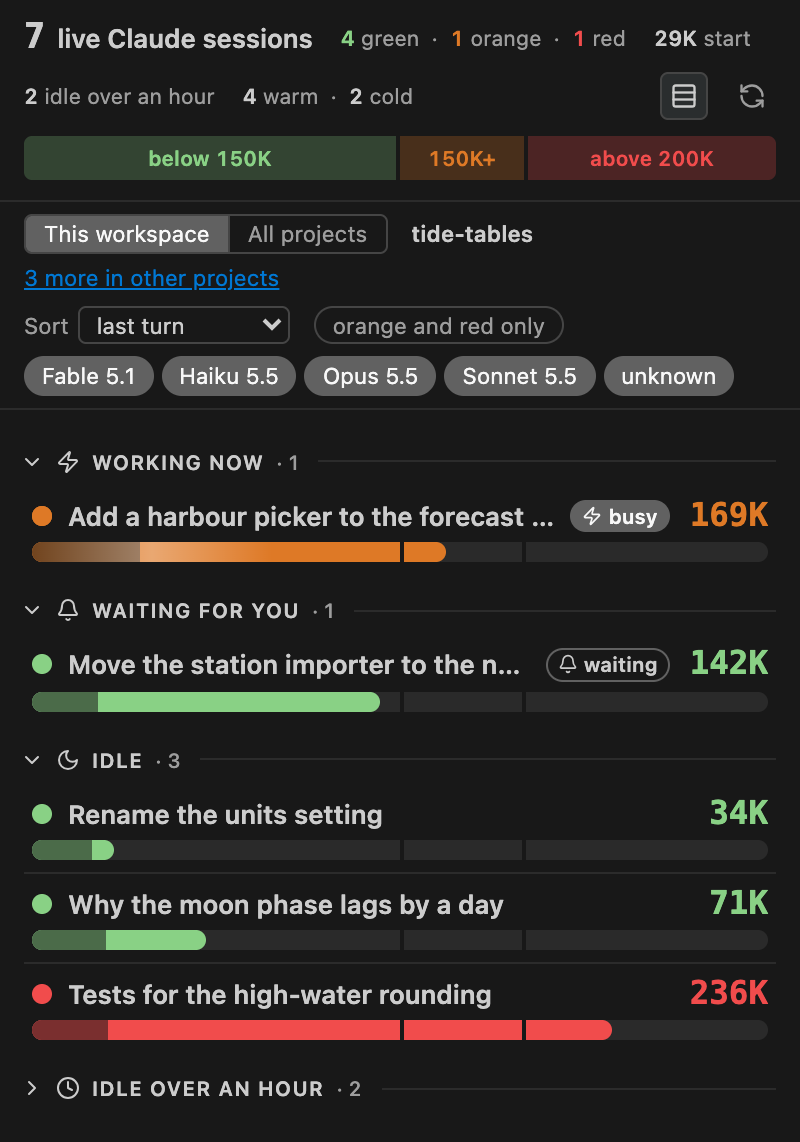
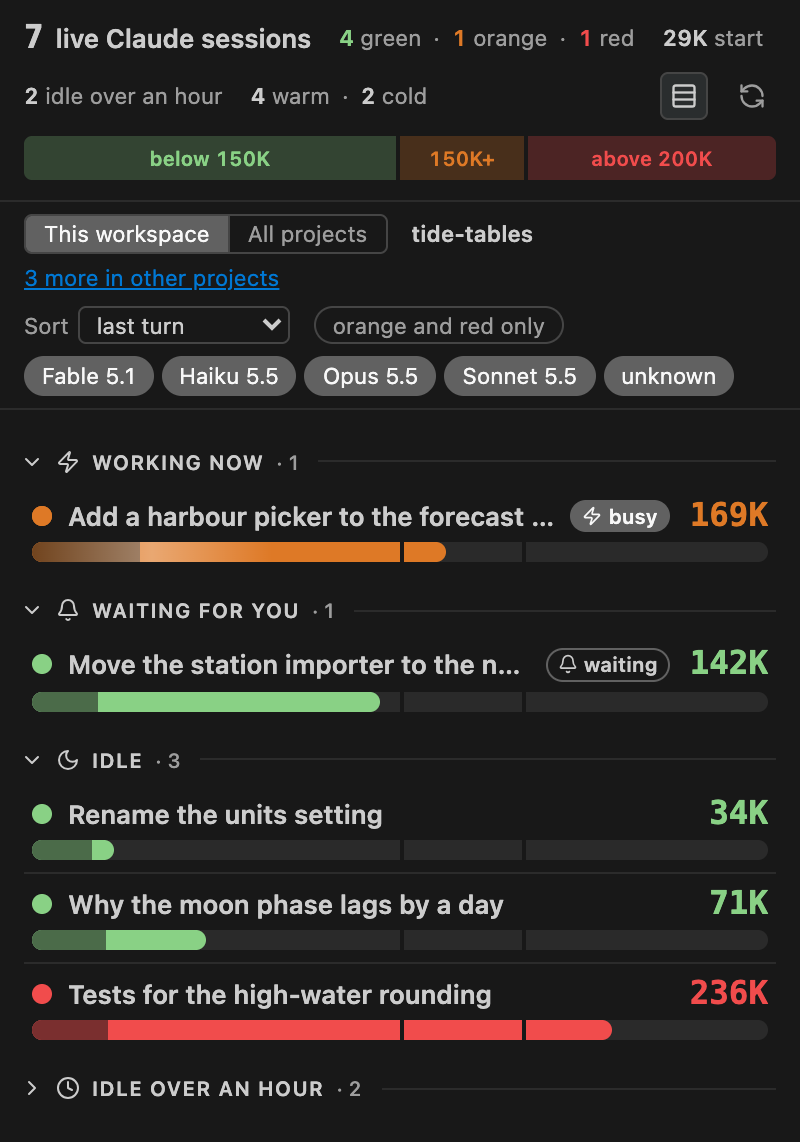
#85 The panel's font sizes come from a scale of six tokens on :root
The panel's CSS had 17 different font-size values, several too close to tell apart, and sizes nested inside one
another multiplied (a key in the facts table came out at 0.77 of the editor's size, its value at 0.9). Six tokens
on :root now carry every size, each named for its rank and a factor of --kx-font-size, so the panel still follows
the editor's font size: small (labels, badges, pills, the curve's axis), secondary (muted lines, the controls, the
detail's tables), body, heading (the session count, the detail's title), count and display (the big numbers). They
are calc() over --kx-font-size rather than em, since an em in a variable resolves where it is used and would
compound again. The wide layout steps the row's count, the detail's context number and the facts' keys up one
rank; the detail's title no longer grows there. A test checks that no font-size is a literal and that the scale
has at most six steps. The README's screenshots are taken again and its note on the look says how text is sized.

Version 0.31.0.

diff --git a/src/panel.css b/src/panel.css
@@ -30,13 +30,22 @@
   --kx-surface: var(--vscode-editorWidget-background, #f6f8fa); /* the field behind the detail view's curve */
   --kx-font: var(--vscode-font-family, system-ui, sans-serif);
   --kx-font-size: var(--vscode-font-size, 13px);
+  /* The text sizes, one per rank, as factors of the editor's font size. calc, not em: an em in a variable resolves
+     where it is used, so a label inside a table would shrink twice and two texts of one rank would differ. The wide
+     layout moves the row's count, the detail's context number and the facts' keys one step up. */
+  --kx-text-small: calc(var(--kx-font-size) * 0.78); /* labels: the upper-case headings, column heads, badges, pills, the zone strip, the curve's axis */
+  --kx-text-secondary: calc(var(--kx-font-size) * 0.86); /* muted lines, the controls, the detail's tables and facts */
+  --kx-text-body: var(--kx-font-size); /* titles, the error, the advice */
+  --kx-text-heading: calc(var(--kx-font-size) * 1.25); /* the session count, the detail's title, the row's count in the narrow layout */
+  --kx-text-count: calc(var(--kx-font-size) * 1.5); /* the row's count in the wide layout, the detail's context number in the narrow */
+  --kx-text-display: calc(var(--kx-font-size) * 2); /* the detail's context number in the wide layout */
   --kx-mono: var(--vscode-editor-font-family, ui-monospace, "SF Mono", Menlo, Consolas, monospace);
 }
 * { box-sizing: border-box; }
 html, body { margin: 0; padding: 0; }
 body {
   background: var(--kx-bg); color: var(--kx-fg);
-  font-family: var(--kx-font); font-size: var(--kx-font-size); line-height: 1.4;
+  font-family: var(--kx-font); font-size: var(--kx-text-body); line-height: 1.4;
   container-type: inline-size; /* the layout below follows the panel's width, not the window's */
 }
 
@@ -45,11 +54,11 @@ header {
   display: flex; flex-wrap: wrap; align-items: center; gap: 8px 14px;
   padding: 10px 12px; border-bottom: 1px solid var(--kx-border);
 }
-header h1 { margin: 0; font-size: 1em; font-weight: 600; display: flex; align-items: baseline; gap: 6px; min-width: 0; }
-header h1 .kx-n { font-family: var(--kx-mono); font-size: 1.35em; font-weight: 700; line-height: 1; font-variant-numeric: tabular-nums; }
+header h1 { margin: 0; font-size: var(--kx-text-body); font-weight: 600; display: flex; align-items: baseline; gap: 6px; min-width: 0; }
+header h1 .kx-n { font-family: var(--kx-mono); font-size: var(--kx-text-heading); font-weight: 700; line-height: 1; font-variant-numeric: tabular-nums; }
 /* the "updated 12:04:31" note and the refresh button, pushed to the right end of the header */
 .kx-tools { display: inline-flex; align-items: center; gap: 10px; margin-left: auto; }
-.kx-refreshed { font-size: 0.82em; color: var(--kx-muted); white-space: nowrap; font-variant-numeric: tabular-nums; }
+.kx-refreshed { font-size: var(--kx-text-secondary); color: var(--kx-muted); white-space: nowrap; font-variant-numeric: tabular-nums; }
 .kx-refresh, .kx-toggle {
   display: inline-flex; align-items: center; justify-content: center; width: 24px; height: 24px; padding: 0; margin: 0;
   border: 1px solid transparent; border-radius: 4px; background: transparent; color: var(--kx-muted); cursor: pointer;
@@ -67,7 +76,7 @@ header h1 .kx-n { font-family: var(--kx-mono); font-size: 1.35em; font-weight: 7
 .kx-zband {
   flex: var(--w) 1 0; min-width: 0; overflow: hidden; display: flex; align-items: center; justify-content: center;
   background: color-mix(in srgb, var(--kx-zone-fill, var(--kx-muted)) 24%, var(--kx-bg)); color: var(--kx-zone-text, var(--kx-muted));
-  font-size: 0.8em; font-weight: 600; font-variant-numeric: tabular-nums; white-space: nowrap;
+  font-size: var(--kx-text-small); font-weight: 600; font-variant-numeric: tabular-nums; white-space: nowrap;
 }
 .kx-zband:first-child { border-radius: 4px 0 0 4px; }
 .kx-zband:last-child { border-radius: 0 4px 4px 0; }
@@ -79,7 +88,7 @@ header h1 .kx-n { font-family: var(--kx-mono); font-size: 1.35em; font-weight: 7
 /* the header's counters beside the session count: the count per zone, the median start of the sessions that began
    fresh, how many sit in the folded "Idle over an hour" group (processes left running, most likely closed tabs), and
    the prompt cache's warm and cold; a bold number each, "·" between the parts of one */
-.kx-counter { font-size: 0.82em; font-variant-numeric: tabular-nums; color: var(--kx-muted); white-space: nowrap; }
+.kx-counter { font-size: var(--kx-text-secondary); font-variant-numeric: tabular-nums; color: var(--kx-muted); white-space: nowrap; }
 .kx-counter b { font-weight: 600; color: var(--kx-fg); }
 .kx-counter span + span::before { content: "·"; margin: 0 6px; }
 .kx-zone-counts { display: inline-flex; flex-wrap: wrap; }
@@ -87,12 +96,12 @@ header h1 .kx-n { font-family: var(--kx-mono); font-size: 1.35em; font-weight: 7
 .kx-cache-counts { display: inline-flex; align-items: center; }
 
 /* "showing 4 of 10" beside the count while a filter hides sessions */
-.kx-showing { font-size: 0.82em; color: var(--kx-muted); white-space: nowrap; }
+.kx-showing { font-size: var(--kx-text-secondary); color: var(--kx-muted); white-space: nowrap; }
 
 /* ── Controls: the sort and the filters, under the header; wraps to more lines in the narrow layout ── */
 .kx-controls {
   display: flex; flex-wrap: wrap; align-items: center; gap: 6px 12px; padding: 6px 12px;
-  border-bottom: 1px solid var(--kx-border); font-size: 0.86em; color: var(--kx-muted);
+  border-bottom: 1px solid var(--kx-border); font-size: var(--kx-text-secondary); color: var(--kx-muted);
 }
 .kx-controls label { display: inline-flex; align-items: center; gap: 5px; white-space: nowrap; }
 .kx-controls select {
@@ -121,15 +130,15 @@ header h1 .kx-n { font-family: var(--kx-mono); font-size: 1.35em; font-weight: 7
 .kx-scope-name { color: var(--kx-fg); font-weight: 600; min-width: 0; overflow: hidden; text-overflow: ellipsis; white-space: nowrap; }
 .kx-scope-more { font: inherit; background: none; border: 0; padding: 0; color: var(--kx-accent); cursor: pointer; text-decoration: underline; white-space: nowrap; }
 .kx-scope-more:focus-visible { outline: 1px solid var(--kx-accent); outline-offset: 1px; }
-.kx-hidden-all { padding: 6px 4px 10px; color: var(--kx-muted); font-style: italic; font-size: 0.9em; }
+.kx-hidden-all { padding: 6px 4px 10px; color: var(--kx-muted); font-style: italic; font-size: var(--kx-text-secondary); }
 
 main { padding: 8px 12px 14px; }
 .kx-message { padding: 18px 4px; color: var(--kx-muted); text-align: center; }
-.kx-error { padding: 8px 12px; color: var(--kx-red); border-bottom: 1px solid var(--kx-border); font-size: 0.92em; }
+.kx-error { padding: 8px 12px; color: var(--kx-red); border-bottom: 1px solid var(--kx-border); font-size: var(--kx-text-body); }
 
 /* ── Groups: "Working now · n", "Waiting for you · n", "Idle · n", "Idle over an hour · n" and, with all projects, the project above them ── */
 .kx-group {
-  margin: 10px 0 4px; font-size: 0.78em; font-weight: 600; text-transform: uppercase; letter-spacing: 0.06em;
+  margin: 10px 0 4px; font-size: var(--kx-text-small); font-weight: 600; text-transform: uppercase; letter-spacing: 0.06em;
   color: var(--kx-heading); display: flex; align-items: center; gap: 6px;
 }
 .kx-group svg { width: 12px; height: 12px; }
@@ -167,7 +176,7 @@ main { padding: 8px 12px 14px; }
 @keyframes kx-pulse { from { transform: scale(1); opacity: 0.7; } to { transform: scale(2.6); opacity: 0; } }
 .kx-badge {
   display: inline-flex; align-items: center; gap: 3px; padding: 0 6px; border-radius: 9px;
-  font-size: 0.78em; font-weight: 600; line-height: 1.6; background: var(--kx-badge-bg); color: var(--kx-badge-fg); flex: none;
+  font-size: var(--kx-text-small); font-weight: 600; line-height: 1.6; background: var(--kx-badge-bg); color: var(--kx-badge-fg); flex: none;
 }
 .kx-badge svg { width: 10px; height: 10px; }
 /* waiting for the user: the same pill as busy, outlined instead of filled, and nothing moves */
@@ -176,12 +185,12 @@ main { padding: 8px 12px 14px; }
 .kx-count { grid-area: num; display: flex; flex-direction: column; align-items: flex-end; gap: 1px; }
 .kx-num {
   font-family: var(--kx-mono); font-variant-numeric: tabular-nums; font-weight: 700; line-height: 1; white-space: nowrap;
-  font-size: 1.25em; color: var(--kx-zone-text, var(--kx-muted));
+  font-size: var(--kx-text-heading); color: var(--kx-zone-text, var(--kx-muted));
 }
-.kx-num[data-zone="unknown"] { font-family: inherit; font-size: 1em; font-weight: 500; }
+.kx-num[data-zone="unknown"] { font-family: inherit; font-size: var(--kx-text-body); font-weight: 500; }
 /* a title the transcript did not give (core.cjs titleFallback), muted so it is not read as a message */
 .kx-title[data-fallback], .kx-d-head h1[data-fallback] { color: var(--kx-muted); font-weight: 500; }
-.kx-zone-txt { font-size: 0.78em; line-height: 1; color: var(--kx-muted); }
+.kx-zone-txt { font-size: var(--kx-text-small); line-height: 1; color: var(--kx-muted); }
 /* the context bar: a track scaled 0–300K, the fill in the zone's fill colour, a gap at every limit */
 .kx-bar-col { grid-area: bar; min-width: 0; display: flex; flex-direction: column; gap: 3px; }
 .kx-bar { position: relative; height: 10px; border-radius: 5px; background: var(--kx-track); overflow: hidden; }
@@ -202,7 +211,7 @@ main { padding: 8px 12px 14px; }
 .kx-tick { position: absolute; top: 0; bottom: 0; width: 2px; background: var(--kx-bg); left: calc(var(--t) * 1%); }
 .kx-over { position: absolute; right: 0; top: 0; bottom: 0; width: 14px; background: repeating-linear-gradient(135deg, transparent 0 3px, var(--kx-bg) 3px 5px); }
 /* under the bar: the top sources of the conversation's growth, an estimate */
-.kx-growth { font-size: 0.8em; color: var(--kx-muted); font-variant-numeric: tabular-nums; white-space: nowrap; overflow: hidden; text-overflow: ellipsis; }
+.kx-growth { font-size: var(--kx-text-secondary); color: var(--kx-muted); font-variant-numeric: tabular-nums; white-space: nowrap; overflow: hidden; text-overflow: ellipsis; }
 /* the sparkline fills its column; strokes stay 1 px although the viewBox is stretched */
 .kx-curve-wrap { grid-area: curve; min-width: 0; }
 .kx-curve { display: block; width: 100%; height: 18px; overflow: visible; color: var(--kx-zone-fill, var(--kx-muted)); }
@@ -212,12 +221,12 @@ main { padding: 8px 12px 14px; }
 /* a compaction (read from the transcript) is a solid mark; a dip (a guessed drop) is dotted */
 .kx-compact { stroke: var(--kx-fg); stroke-width: 1.5; opacity: 0.85; }
 .kx-dip { stroke: var(--kx-fg); stroke-width: 1; opacity: 0.7; stroke-dasharray: 2 2; }
-.kx-nocurve { font-size: 0.82em; color: var(--kx-muted); font-style: italic; }
+.kx-nocurve { font-size: var(--kx-text-secondary); color: var(--kx-muted); font-style: italic; }
 /* output per turn under the curve, on its own scale: the whole bar faint, the thinking part of it stronger */
 .kx-out { display: block; width: 100%; height: 7px; margin-top: 2px; color: var(--kx-muted); }
 .kx-out-all { fill: currentColor; opacity: 0.35; }
 .kx-out-think { fill: currentColor; opacity: 0.8; }
-.kx-meta { grid-area: meta; display: flex; flex-wrap: wrap; gap: 3px 10px; color: var(--kx-muted); font-size: 0.86em; min-width: 0; }
+.kx-meta { grid-area: meta; display: flex; flex-wrap: wrap; gap: 3px 10px; color: var(--kx-muted); font-size: var(--kx-text-secondary); min-width: 0; }
 .kx-meta span { display: inline-flex; align-items: center; gap: 4px; white-space: nowrap; }
 .kx-meta svg { width: 12px; height: 12px; opacity: 0.8; }
 /* the prompt cache: "warm · 47 min" with the TTL as a small outlined pill; a few minutes from cold the
@@ -226,7 +235,7 @@ main { padding: 8px 12px 14px; }
 .kx-cache[data-cache="soon"] svg { opacity: 1; }
 .kx-cache[data-cache="cold"] { color: var(--kx-fg); }
 .kx-ttl {
-  font-size: 0.82em; font-weight: 600; line-height: 1.4; padding: 0 4px; border-radius: 4px;
+  font-size: var(--kx-text-small); font-weight: 600; line-height: 1.4; padding: 0 4px; border-radius: 4px;
   border: 1px solid var(--kx-border-strong); color: var(--kx-muted); font-variant-numeric: tabular-nums;
 }
 .kx-ttl[data-ttl="5m"] { color: var(--kx-orange); border-color: currentColor; } /* a drop from 1h is the thing to notice */
@@ -250,17 +259,17 @@ main[data-compact] :is(.kx-zone-txt, .kx-growth, .kx-curve-wrap, .kx-meta, .kx-a
 .kx-detail { padding: 8px 12px 16px; }
 .kx-d-top { display: flex; align-items: center; gap: 8px; margin: 0 0 6px; }
 .kx-d-back {
-  display: inline-flex; align-items: center; gap: 4px; font: inherit; font-size: 0.92em; color: var(--kx-muted);
+  display: inline-flex; align-items: center; gap: 4px; font: inherit; font-size: var(--kx-text-secondary); color: var(--kx-muted);
   background: transparent; border: 1px solid transparent; border-radius: 4px; padding: 2px 8px 2px 4px; cursor: pointer;
 }
 .kx-d-back:hover { background: var(--kx-row-hover); color: var(--kx-fg); }
 .kx-d-back:focus-visible, .kx-d-copy:focus-visible, .kx-d-turn:focus-visible { outline: 1px solid var(--kx-accent); outline-offset: 1px; }
 .kx-d-back svg { width: 14px; height: 14px; }
-.kx-d-esc { margin-left: auto; font-size: 0.78em; color: var(--kx-muted); font-family: var(--kx-mono); }
+.kx-d-esc { margin-left: auto; font-size: var(--kx-text-small); color: var(--kx-muted); font-family: var(--kx-mono); }
 .kx-d-head { display: flex; align-items: center; gap: 8px; min-width: 0; margin: 4px 0 2px; }
-.kx-d-head h1 { margin: 0; font-size: 1.15em; font-weight: 600; line-height: 1.3; min-width: 0; overflow-wrap: anywhere; }
+.kx-d-head h1 { margin: 0; font-size: var(--kx-text-heading); font-weight: 600; line-height: 1.3; min-width: 0; overflow-wrap: anywhere; }
 .kx-d-head .kx-dot { width: 12px; height: 12px; }
-.kx-d-meta { display: flex; flex-wrap: wrap; gap: 3px 12px; color: var(--kx-muted); font-size: 0.86em; margin: 0 0 8px; }
+.kx-d-meta { display: flex; flex-wrap: wrap; gap: 3px 12px; color: var(--kx-muted); font-size: var(--kx-text-secondary); margin: 0 0 8px; }
 .kx-d-meta span { display: inline-flex; align-items: center; gap: 4px; white-space: nowrap; min-width: 0; }
 .kx-d-meta svg { width: 12px; height: 12px; opacity: 0.8; }
 .kx-d-sec { margin: 0 0 12px; }
@@ -269,29 +278,29 @@ main[data-compact] :is(.kx-zone-txt, .kx-growth, .kx-curve-wrap, .kx-meta, .kx-a
 .kx-d-curve { position: absolute; inset: 0; width: 100%; height: 100%; display: block; overflow: visible; color: var(--kx-zone-fill, var(--kx-muted)); }
 .kx-d-band { fill: var(--kx-band, transparent); opacity: 0.09; }
 .kx-d-axis {
-  position: absolute; right: 4px; font-size: 0.7em; color: var(--kx-muted); font-variant-numeric: tabular-nums; line-height: 1;
+  position: absolute; right: 4px; font-size: var(--kx-text-small); color: var(--kx-muted); font-variant-numeric: tabular-nums; line-height: 1;
   transform: translateY(-50%); pointer-events: none; background: color-mix(in srgb, var(--kx-surface) 80%, transparent); padding: 0 2px; border-radius: 2px;
 }
 .kx-d-field[data-axis="1"] .kx-d-axis-low { display: none; }
 .kx-d-hair { position: absolute; top: 0; bottom: 0; width: 1px; background: var(--kx-fg); opacity: 0.6; pointer-events: none; display: none; }
 .kx-d-tip {
   position: absolute; top: 40px; max-width: min(260px, 80%); background: var(--kx-bg); border: 1px solid var(--kx-border-strong);
-  border-radius: 4px; padding: 4px 8px; font-size: 0.8em; line-height: 1.35; box-shadow: 0 2px 6px rgba(0, 0, 0, 0.18); pointer-events: none; display: none;
+  border-radius: 4px; padding: 4px 8px; font-size: var(--kx-text-secondary); line-height: 1.35; box-shadow: 0 2px 6px rgba(0, 0, 0, 0.18); pointer-events: none; display: none;
 }
 .kx-d-tip b { font-family: var(--kx-mono); font-variant-numeric: tabular-nums; }
 .kx-d-field.kx-d-hover .kx-d-hair, .kx-d-field.kx-d-hover .kx-d-tip { display: block; }
 /* the compaction's label on its own row under the top axis label, the segment's start at the bottom */
 .kx-d-mark {
-  position: absolute; top: 22px; font-size: 0.7em; color: var(--kx-fg); background: var(--kx-bg); border: 1px solid var(--kx-border-strong);
+  position: absolute; top: 22px; font-size: var(--kx-text-small); color: var(--kx-fg); background: var(--kx-bg); border: 1px solid var(--kx-border-strong);
   border-radius: 3px; padding: 0 4px; white-space: nowrap; transform: translateX(-50%); pointer-events: none; max-width: 45%; overflow: hidden; text-overflow: ellipsis;
 }
 .kx-d-mark.kx-d-start { top: auto; bottom: 4px; color: var(--kx-muted); }
-.kx-d-lbl { display: flex; flex-wrap: wrap; gap: 4px 10px; align-items: center; font-size: 0.8em; color: var(--kx-muted); margin: 0 0 4px; }
+.kx-d-lbl { display: flex; flex-wrap: wrap; gap: 4px 10px; align-items: center; font-size: var(--kx-text-secondary); color: var(--kx-muted); margin: 0 0 4px; }
 .kx-d-leg { display: inline-flex; align-items: center; gap: 4px; }
 .kx-d-leg i { display: inline-block; width: 12px; height: 0; border-top: 2px solid var(--kx-fg); }
 .kx-d-leg i.kx-d-dash { border-top-style: dashed; border-top-width: 1px; border-color: var(--kx-grid); }
 /* the turn chooser: the keyboard's way to the same tooltip */
-.kx-d-turn-row { display: flex; align-items: center; gap: 8px; margin: 6px 0 0; font-size: 0.82em; color: var(--kx-muted); }
+.kx-d-turn-row { display: flex; align-items: center; gap: 8px; margin: 6px 0 0; font-size: var(--kx-text-secondary); color: var(--kx-muted); }
 .kx-d-turn { flex: 1 1 auto; min-width: 0; accent-color: var(--kx-accent); margin: 0; height: 18px; }
 .kx-d-turn-val { font-family: var(--kx-mono); font-variant-numeric: tabular-nums; white-space: nowrap; min-width: 9ch; text-align: right; }
 /* output per turn in its own field under the curve, half its height and on the same x-axis; the turn's column is
@@ -313,38 +322,38 @@ main[data-compact] :is(.kx-zone-txt, .kx-growth, .kx-curve-wrap, .kx-meta, .kx-a
   margin: 0 0 10px; padding: 8px 10px; border-left: 3px solid var(--kx-zone-fill, var(--kx-muted)); border-radius: 0 4px 4px 0;
   background: color-mix(in srgb, var(--kx-zone-fill, var(--kx-muted)) 8%, transparent);
 }
-.kx-d-ctx h2 { margin: 0; display: flex; flex-wrap: wrap; align-items: baseline; gap: 0 6px; font-size: 1em; font-weight: 600; line-height: 1.25; }
-.kx-d-ctx h2 .kx-num { font-size: 1.6em; }
+.kx-d-ctx h2 { margin: 0; display: flex; flex-wrap: wrap; align-items: baseline; gap: 0 6px; font-size: var(--kx-text-body); font-weight: 600; line-height: 1.25; }
+.kx-d-ctx h2 .kx-num { font-size: var(--kx-text-count); }
 .kx-d-ctx h2 .kx-d-zn { color: var(--kx-zone-text, var(--kx-muted)); }
-.kx-d-why { margin: 3px 0 0; font-size: 0.8em; color: var(--kx-muted); }
+.kx-d-why { margin: 3px 0 0; font-size: var(--kx-text-secondary); color: var(--kx-muted); }
 .kx-d-advice {
   margin: 6px 0 0; padding: 6px 0 0; border-top: 1px solid color-mix(in srgb, var(--kx-zone-fill, var(--kx-muted)) 30%, transparent);
-  font-size: 0.95em; font-weight: 600;
+  font-size: var(--kx-text-body); font-weight: 600;
 }
 /* the named facts under it, key muted and value in mono */
-.kx-d-named { display: flex; flex-wrap: wrap; gap: 2px 16px; margin: 0 0 10px; font-size: 0.9em; }
+.kx-d-named { display: flex; flex-wrap: wrap; gap: 2px 16px; margin: 0 0 10px; font-size: var(--kx-text-secondary); }
 .kx-d-named div { display: flex; align-items: baseline; gap: 6px; }
 .kx-d-named dt { color: var(--kx-muted); }
 .kx-d-named dd { margin: 0; font-family: var(--kx-mono); font-variant-numeric: tabular-nums; font-weight: 600; }
 /* where the context went: name · bar · tokens · share per source, the bars scaled to the largest; the caveat once under them */
-.kx-d-bars { display: grid; grid-template-columns: auto minmax(0, 1fr) auto auto; gap: 4px 10px; align-items: center; font-size: 0.9em; font-variant-numeric: tabular-nums; }
+.kx-d-bars { display: grid; grid-template-columns: auto minmax(0, 1fr) auto auto; gap: 4px 10px; align-items: center; font-size: var(--kx-text-secondary); font-variant-numeric: tabular-nums; }
 .kx-d-bar { height: 10px; border-radius: 5px; background: var(--kx-track); overflow: hidden; }
 .kx-d-bar i { display: block; height: 100%; width: calc(var(--p) * 1%); background: var(--kx-zone-fill, var(--kx-muted)); border-radius: 5px; }
 .kx-d-bar-n { font-weight: 600; white-space: nowrap; overflow: hidden; text-overflow: ellipsis; max-width: 16ch; } /* a long MCP name must not squeeze the bars */
 .kx-d-bar-v { font-family: var(--kx-mono); white-space: nowrap; }
 .kx-d-bar-s { color: var(--kx-muted); white-space: nowrap; min-width: 4ch; text-align: right; }
-.kx-d-note { margin: 6px 0 0; font-size: 0.8em; color: var(--kx-muted); font-style: italic; }
+.kx-d-note { margin: 6px 0 0; font-size: var(--kx-text-secondary); color: var(--kx-muted); font-style: italic; }
 /* the facts: two tables, key over value in the narrow layout so a long path never overflows */
 .kx-d-facts { display: grid; grid-template-columns: minmax(0, 1fr); gap: 8px 20px; }
-.kx-d-facts table { width: 100%; table-layout: fixed; border-collapse: collapse; font-size: 0.9em; }
-.kx-d-facts caption { text-align: left; font-size: 0.78em; font-weight: 600; text-transform: uppercase; letter-spacing: 0.06em; color: var(--kx-heading); padding: 0 0 4px; }
+.kx-d-facts table { width: 100%; table-layout: fixed; border-collapse: collapse; font-size: var(--kx-text-secondary); }
+.kx-d-facts caption { text-align: left; font-size: var(--kx-text-small); font-weight: 600; text-transform: uppercase; letter-spacing: 0.06em; color: var(--kx-heading); padding: 0 0 4px; }
 .kx-d-facts tr { display: block; padding: 4px 0; border-bottom: 1px solid var(--kx-border); }
 .kx-d-facts th, .kx-d-facts td { display: block; text-align: left; padding: 0; border: 0; vertical-align: top; overflow-wrap: anywhere; }
-.kx-d-facts th { font-weight: 500; font-size: 0.86em; color: var(--kx-muted); }
+.kx-d-facts th { font-weight: 500; font-size: var(--kx-text-small); color: var(--kx-muted); }
 .kx-d-facts td { font-variant-numeric: tabular-nums; }
-.kx-d-facts td code { font-family: var(--kx-mono); font-size: 0.9em; overflow-wrap: anywhere; }
+.kx-d-facts td code { font-family: var(--kx-mono); overflow-wrap: anywhere; }
 .kx-d-copy {
-  font: inherit; font-size: 0.8em; color: var(--kx-muted); background: transparent; border: 1px solid var(--kx-border-strong);
+  font: inherit; font-size: var(--kx-text-small); color: var(--kx-muted); background: transparent; border: 1px solid var(--kx-border-strong);
   border-radius: 4px; padding: 0 6px; margin-left: 6px; cursor: pointer; vertical-align: 1px;
 }
 .kx-d-copy:hover { color: var(--kx-fg); background: var(--kx-row-hover); }
@@ -352,7 +361,7 @@ main[data-compact] :is(.kx-zone-txt, .kx-growth, .kx-curve-wrap, .kx-meta, .kx-a
 /* the subagents: a table from 620 px; below it each subagent is two lines, its status, what it is and its bar
    over the turns, output, model and last turn */
 .kx-d-agents .kx-d-why { margin: 0 0 6px; }
-.kx-d-agents table { width: 100%; border-collapse: collapse; font-size: 0.9em; font-variant-numeric: tabular-nums; }
+.kx-d-agents table { width: 100%; border-collapse: collapse; font-size: var(--kx-text-secondary); font-variant-numeric: tabular-nums; }
 .kx-d-agents thead { display: none; }
 .kx-d-agents tr { display: grid; grid-template-columns: 6.5em auto minmax(0, 1fr) auto; /* a fixed first column, so every description starts at one place */ gap: 2px 10px; align-items: center; padding: 5px 0; border-bottom: 1px solid var(--kx-border); }
 .kx-d-agents td { padding: 0; white-space: nowrap; }
@@ -362,10 +371,9 @@ main[data-compact] :is(.kx-zone-txt, .kx-growth, .kx-curve-wrap, .kx-meta, .kx-a
 .kx-d-a-ctx { width: 130px; }
 .kx-d-a-ctx > div { display: flex; align-items: center; gap: 6px; }
 .kx-d-a-ctx .kx-bar { flex: 1 1 auto; min-width: 50px; height: 8px; }
-.kx-d-a-ctx .kx-num { font-size: 1em; min-width: 4.5ch; text-align: right; }
+.kx-d-a-ctx .kx-num { font-size: var(--kx-text-secondary); min-width: 4.5ch; text-align: right; }
 .kx-d-a-fact { color: var(--kx-muted); }
-.kx-d-a-st { font-size: 0.86em; color: var(--kx-muted); }
-.kx-d-a-st[data-status="running"] .kx-badge { font-size: 1em; }
+.kx-d-a-st { font-size: var(--kx-text-small); color: var(--kx-muted); }
 .kx-d-a-st[data-status="unknown"] { font-style: italic; }
 
 @container (min-width: 620px) {
@@ -374,12 +382,12 @@ main[data-compact] :is(.kx-zone-txt, .kx-growth, .kx-curve-wrap, .kx-meta, .kx-a
     grid-template-areas: "title bar curve num" "meta bar curve num";
     gap: 2px 14px; padding: 8px 6px;
   }
-  .kx-num { font-size: 1.45em; }
+  .kx-num { font-size: var(--kx-text-count); }
   .kx-curve { height: 26px; }
   .kx-out { height: 9px; }
   .kx-axis {
     display: grid; grid-template-columns: minmax(0, 1.2fr) minmax(160px, 1fr) minmax(140px, 0.8fr) minmax(72px, auto);
-    gap: 0 14px; padding: 2px 6px 4px; font-size: 0.74em; color: var(--kx-muted); text-transform: uppercase; letter-spacing: 0.05em;
+    gap: 0 14px; padding: 2px 6px 4px; font-size: var(--kx-text-small); color: var(--kx-muted); text-transform: uppercase; letter-spacing: 0.05em;
   }
   .kx-axis .kx-scale { position: relative; height: 1em; }
   .kx-axis .kx-scale span { position: absolute; top: 0; transform: translateX(-50%); left: calc(var(--t) * 1%); font-variant-numeric: tabular-nums; }
@@ -387,8 +395,7 @@ main[data-compact] :is(.kx-zone-txt, .kx-growth, .kx-curve-wrap, .kx-meta, .kx-a
   .kx-axis .kx-scale span:last-child { transform: translateX(-100%); }
   .kx-axis .kx-r { text-align: right; }
   .kx-detail { padding: 10px 16px 20px; }
-  .kx-d-head h1 { font-size: 1.35em; }
-  .kx-d-ctx h2 .kx-num { font-size: 2em; }
+  .kx-d-ctx h2 .kx-num { font-size: var(--kx-text-display); }
   .kx-d-field { height: 220px; }
   .kx-d-field[data-axis] .kx-d-axis { display: block; }
   .kx-d-field[data-axis-wide="1"] .kx-d-axis-low { display: none; }
@@ -397,11 +404,11 @@ main[data-compact] :is(.kx-zone-txt, .kx-growth, .kx-curve-wrap, .kx-meta, .kx-a
   .kx-d-facts { grid-template-columns: minmax(0, 1fr) minmax(0, 1fr); }
   .kx-d-facts tr { display: table-row; padding: 0; border: 0; }
   .kx-d-facts th, .kx-d-facts td { display: table-cell; padding: 3px 6px 3px 0; border-bottom: 1px solid var(--kx-border); }
-  .kx-d-facts th { width: 42%; font-size: 1em; }
+  .kx-d-facts th { width: 42%; font-size: var(--kx-text-secondary); } /* beside the value, the value's size */
   .kx-d-agents thead { display: table-header-group; }
   .kx-d-agents tr { display: table-row; }
   .kx-d-agents th, .kx-d-agents td { display: table-cell; padding: 4px 12px 4px 0; border-bottom: 1px solid var(--kx-border); text-align: left; vertical-align: middle; white-space: nowrap; }
-  .kx-d-agents th { font-weight: 500; font-size: 0.86em; color: var(--kx-muted); }
+  .kx-d-agents th { font-weight: 500; font-size: var(--kx-text-small); color: var(--kx-muted); }
   .kx-d-agents .kx-d-r { text-align: right; }
   .kx-d-a-who { width: 100%; max-width: 0; } /* takes what the other columns leave, cut with an ellipsis */
   .kx-d-a-ctx .kx-bar { flex: none; width: 120px; } /* a table cell gives a flexible bar no width: the description column takes it */

diff --git a/test/panel.test.js b/test/panel.test.js
@@ -929,6 +929,26 @@ describe("panel: what the core decides for it", () => {
   });
 });
 
+describe("panel: the text sizes", () => {
+  // The style as the host serves it, comments out: every font-size is one of a few tokens on :root (#85), so two texts
+  // of one rank cannot drift apart and a new element takes a step of the scale, not a value of its own.
+  const style = () => panel().doc.querySelector("style").textContent.replace(/\/\*[\s\S]*?\*\//g, "");
+  it("come from a scale of at most six tokens, each a factor of the editor's font size", () => {
+    const steps = [...style().matchAll(/(--kx-text-[\w-]+)\s*:\s*([^;]+);/g)];
+    expect(steps.length).toBeGreaterThanOrEqual(4);
+    expect(steps.length).toBeLessThanOrEqual(6);
+    for (const [, , value] of steps) expect(value.trim()).toMatch(/^(var\(--kx-font-size\)|calc\(var\(--kx-font-size\) \* [\d.]+\))$/);
+  });
+  it("leave no literal font-size outside the tokens", () => {
+    const css = style(), defined = new Set([...css.matchAll(/(--kx-text-[\w-]+)\s*:/g)].map((m) => m[1]));
+    const used = [...css.matchAll(/(?<![\w-])font-size\s*:\s*([^;}]+)/g)].map((m) => m[1].trim());
+    expect(used.length).toBeGreaterThan(30);
+    for (const value of used) expect(defined).toContain(value.match(/^var\((--kx-text-[\w-]+)\)$/)?.[1]);
+    // the shorthand may only take the parent's font, never set a size of its own
+    for (const [, value] of css.matchAll(/(?<![\w-])font\s*:\s*([^;}]+)/g)) expect(value.trim()).toBe("inherit");
+  });
+});
+
 describe("panel: what the host may send", () => {
   it("a payload with missing or wrongly typed fields renders without throwing", () => {
     const p = panel();

diff --git a/README.md b/README.md
@@ -21,7 +21,9 @@ in real time. The same panel runs in a browser tab too, for Claude Code in a ter
 <img src="media/wide.png" alt="The panel at full width over all projects: ten sessions grouped by project, each with its context bar, sparkline and count in its zone colour">
 
 <sub>Every screenshot here is made from invented sessions (`scripts/demo.cjs`), not from real conversations, in VS Code's
-Dark Modern theme; the panel follows whatever theme the editor has, and in a browser the system's light or dark setting.</sub>
+Dark Modern theme; the panel follows whatever theme the editor has, and in a browser the system's light or dark setting.
+Its text follows the editor's font size, in six steps from the small labels to the detail view's context number, so
+two texts of the same rank are always the same size.</sub>
 
 ## Why
 
